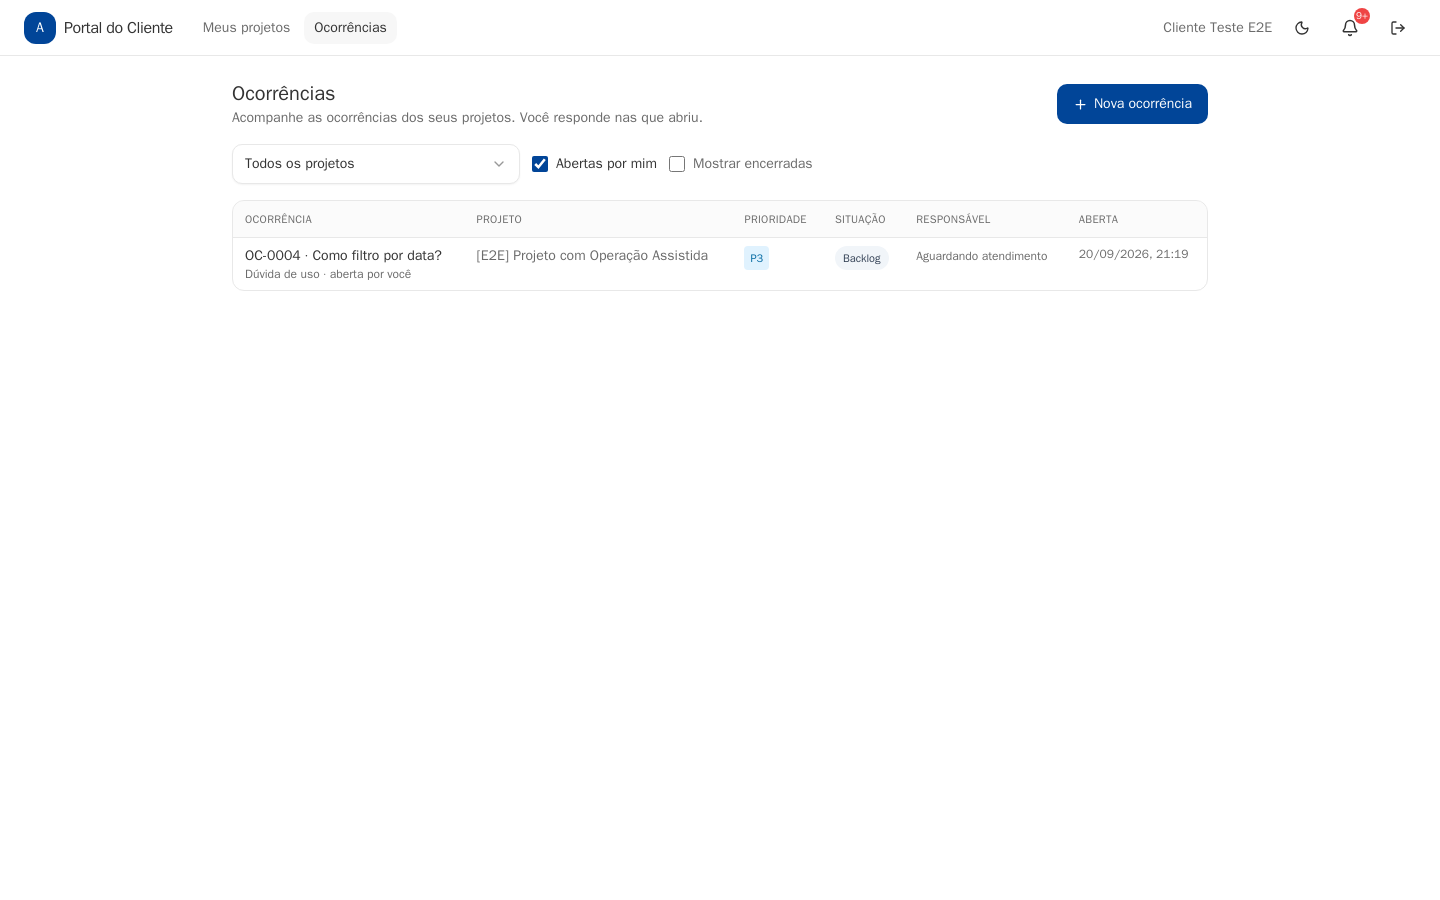
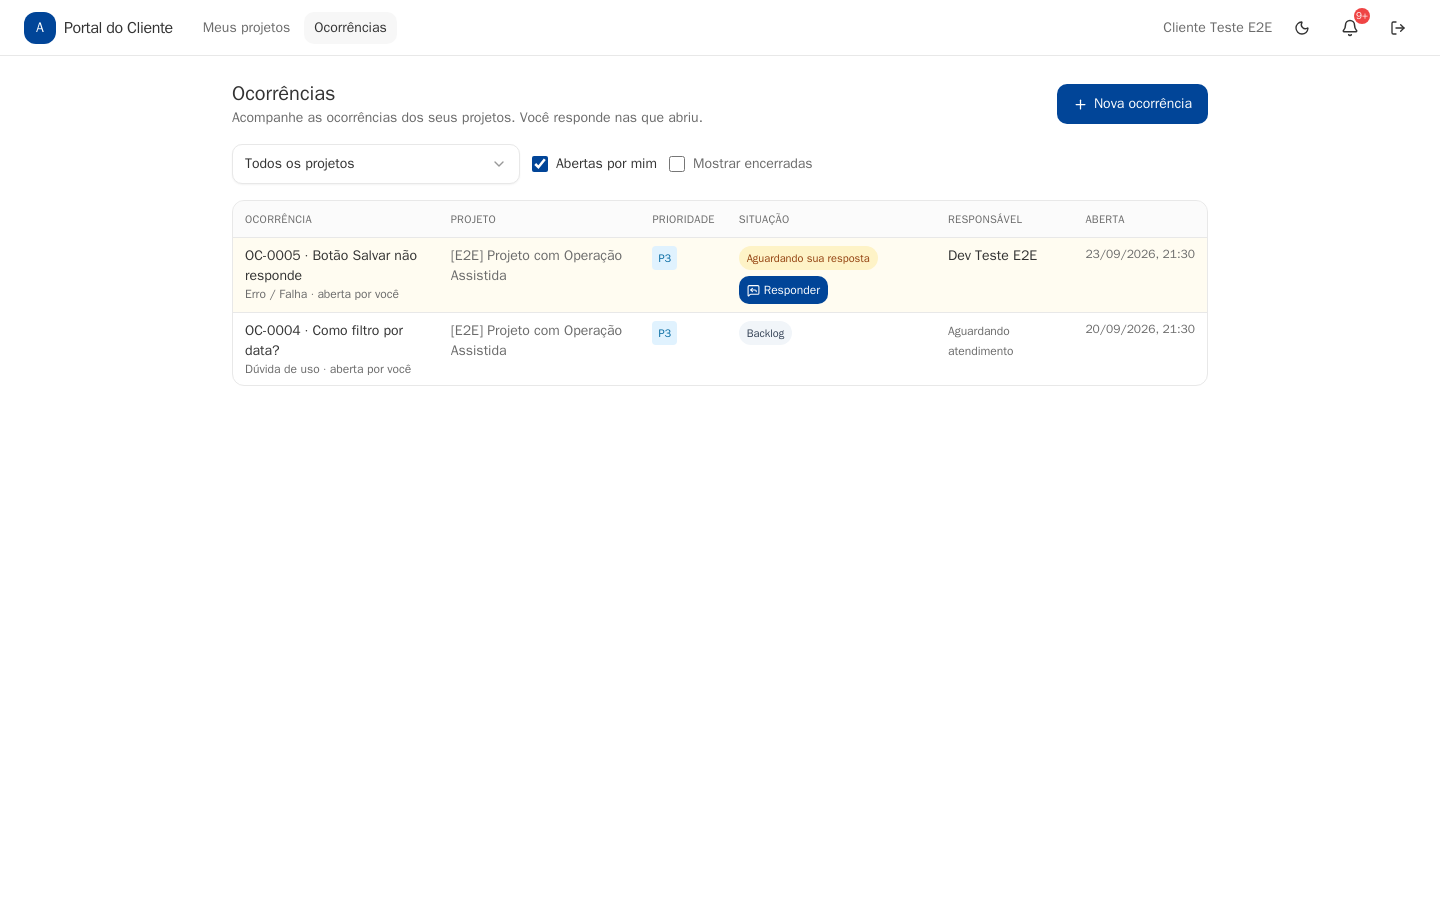
fix(portal): linha da ocorrência abre o detalhe e "Responder" em destaque
Na lista do Portal só o título era link: o cliente clicava na linha, não
chegava ao detalhe (onde fica a caixa de resposta) e não conseguia
responder ao dev em Aguardando Cliente. A linha inteira agora navega
(clique e Enter), a ocorrência aguardando resposta fica destacada com
botão "Responder", e no detalhe o aviso tem "Responder", que foca a caixa.

E2E da OA com o cenário (pergunta pública pelo drawer, clique na linha,
resposta, volta para Ajustando, dev notificado): 76/76 + 23/23.

diff --git a/frontend/src/modules/portal/ClientOccurrencesPage.tsx b/frontend/src/modules/portal/ClientOccurrencesPage.tsx
@@ -1,6 +1,6 @@
 import { useEffect, useMemo, useState } from "react"
-import { Link, useSearchParams } from "react-router-dom"
-import { LifeBuoy, Plus } from "lucide-react"
+import { Link, useNavigate, useSearchParams } from "react-router-dom"
+import { LifeBuoy, MessageSquareReply, Plus } from "lucide-react"
 
 import {
   OCCURRENCE_TIPO_LABEL,
@@ -18,6 +18,7 @@ const ALL = "__all__"
 
 /** Lista de ocorrências dos projetos do cliente (todas; filtro "abertas por mim"). */
 export default function ClientOccurrencesPage() {
+  const navigate = useNavigate()
   const [params, setParams] = useSearchParams()
   const projectFilter = params.get("projeto") ?? ALL
   const mine = params.get("minhas") === "1"
@@ -127,33 +128,59 @@ export default function ClientOccurrencesPage() {
               </tr>
             </thead>
             <tbody>
-              {visible.map((o) => (
-                <tr key={o.task_id} className="border-t align-top hover:bg-muted/30">
-                  <td className="px-3 py-2">
-                    <Link to={`/portal/ocorrencias/${o.task_id}`} className="font-medium hover:underline">
-                      {o.title}
-                    </Link>
-                    <div className="text-xs text-muted-foreground">
-                      {OCCURRENCE_TIPO_LABEL[o.tipo]}
-                      {o.opened_by_name && <> · {o.opened_by_me ? "aberta por você" : `por ${o.opened_by_name}`}</>}
-                    </div>
-                  </td>
-                  <td className="px-3 py-2 text-muted-foreground">{o.project_title ?? "—"}</td>
-                  <td className="px-3 py-2">
-                    <PriorityBadge value={o.prioridade} />
-                  </td>
-                  <td className="px-3 py-2">
-                    <StageBadge stageKey={o.stage_key} name={o.stage_name} mine={o.opened_by_me} />
-                  </td>
-                  {/* Quem assumiu no time (antes disso, aguardando alguém assumir). */}
-                  <td className="px-3 py-2">
-                    {o.assignee_name
-                      ? <span className="font-medium">{o.assignee_name}</span>
-                      : <span className="text-xs text-muted-foreground">{o.is_closed ? "—" : "Aguardando atendimento"}</span>}
-                  </td>
-                  <td className="whitespace-nowrap px-3 py-2 text-xs text-muted-foreground">{fmtDateTime(o.created_at)}</td>
-                </tr>
-              ))}
+              {visible.map((o) => {
+                const href = `/portal/ocorrencias/${o.task_id}`
+                const waitingMe = o.opened_by_me && o.stage_key === "aguardando_cliente"
+                // A linha inteira abre o detalhe (é lá que o cliente responde ao time).
+                return (
+                  <tr
+                    key={o.task_id}
+                    tabIndex={0}
+                    onClick={(e) => {
+                      if ((e.target as HTMLElement).closest("a, button")) return
+                      if (window.getSelection()?.toString()) return
+                      navigate(href)
+                    }}
+                    onKeyDown={(e) => {
+                      if (e.key === "Enter" && e.target === e.currentTarget) navigate(href)
+                    }}
+                    className={`cursor-pointer border-t align-top hover:bg-muted/30 focus-visible:bg-muted/40 focus-visible:outline-none ${
+                      waitingMe ? "bg-amber-50/70 dark:bg-amber-950/20" : ""
+                    }`}
+                  >
+                    <td className="px-3 py-2">
+                      <Link to={href} className="font-medium hover:underline">
+                        {o.title}
+                      </Link>
+                      <div className="text-xs text-muted-foreground">
+                        {OCCURRENCE_TIPO_LABEL[o.tipo]}
+                        {o.opened_by_name && <> · {o.opened_by_me ? "aberta por você" : `por ${o.opened_by_name}`}</>}
+                      </div>
+                    </td>
+                    <td className="px-3 py-2 text-muted-foreground">{o.project_title ?? "—"}</td>
+                    <td className="px-3 py-2">
+                      <PriorityBadge value={o.prioridade} />
+                    </td>
+                    <td className="px-3 py-2">
+                      <StageBadge stageKey={o.stage_key} name={o.stage_name} mine={o.opened_by_me} />
+                      {waitingMe && (
+                        <Button asChild size="sm" className="mt-1.5 h-7 gap-1 px-2 text-xs">
+                          <Link to={href}>
+                            <MessageSquareReply size={13} /> Responder
+                          </Link>
+                        </Button>
+                      )}
+                    </td>
+                    {/* Quem assumiu no time (antes disso, aguardando alguém assumir). */}
+                    <td className="px-3 py-2">
+                      {o.assignee_name
+                        ? <span className="font-medium">{o.assignee_name}</span>
+                        : <span className="text-xs text-muted-foreground">{o.is_closed ? "—" : "Aguardando atendimento"}</span>}
+                    </td>
+                    <td className="whitespace-nowrap px-3 py-2 text-xs text-muted-foreground">{fmtDateTime(o.created_at)}</td>
+                  </tr>
+                )
+              })}
             </tbody>
           </table>
         </div>

diff --git a/frontend/src/modules/portal/ClientOccurrenceDetailPage.tsx b/frontend/src/modules/portal/ClientOccurrenceDetailPage.tsx
@@ -1,6 +1,6 @@
-import { useEffect, useState } from "react"
+import { useEffect, useRef, useState } from "react"
 import { Link, useParams } from "react-router-dom"
-import { ArrowLeft, CheckCircle2, Loader2, Send, XCircle } from "lucide-react"
+import { ArrowLeft, CheckCircle2, Loader2, MessageSquareReply, Send, XCircle } from "lucide-react"
 
 import {
   OCCURRENCE_ABRANGENCIA_LABEL,
@@ -37,6 +37,7 @@ export default function ClientOccurrenceDetailPage() {
   const [reply, setReply] = useState("")
   const [replyFiles, setReplyFiles] = useState<Upload[]>([])
   const [sending, setSending] = useState(false)
+  const replyRef = useRef<HTMLTextAreaElement>(null)
   // Homologação
   const [homologMode, setHomologMode] = useState<"approve" | "reject" | null>(null)
   const [nps, setNps] = useState<number | null>(null)
@@ -61,10 +62,11 @@ export default function ClientOccurrenceDetailPage() {
         content: reply.trim(),
         anexos: replyFiles.length ? replyFiles : null,
       })
+      const wasWaiting = occ.stage_key === "aguardando_cliente"
       setOcc(updated)
       setReply("")
       setReplyFiles([])
-      toast.success("Mensagem enviada.")
+      toast.success(wasWaiting ? "Resposta enviada — a ocorrência voltou para o time." : "Mensagem enviada.")
     } catch (err) {
       toast.error(apiErrorDetail(err, "Não foi possível enviar a mensagem."))
     } finally {
@@ -131,7 +133,21 @@ export default function ClientOccurrenceDetailPage() {
 
       {waitingMe && (
         <Alert>
-          <AlertDescription>O time precisa de uma informação sua. Responda abaixo para a ocorrência voltar ao atendimento.</AlertDescription>
+          <AlertDescription className="flex flex-wrap items-center justify-between gap-2">
+            <span>O time precisa de uma informação sua. Responda na conversa para a ocorrência voltar ao atendimento.</span>
+            {occ.can_interact && (
+              <Button
+                size="sm"
+                className="gap-1.5"
+                onClick={() => {
+                  replyRef.current?.scrollIntoView({ behavior: "smooth", block: "center" })
+                  replyRef.current?.focus({ preventScroll: true })
+                }}
+              >
+                <MessageSquareReply size={14} /> Responder
+              </Button>
+            )}
+          </AlertDescription>
         </Alert>
       )}
       {occ.opened_by_me && occ.stage_key === "homologando" && (
@@ -250,7 +266,7 @@ export default function ClientOccurrenceDetailPage() {
 
             {occ.can_interact ? (
               <div className="space-y-2 border-t pt-3">
-                <Textarea rows={3} placeholder="Escreva sua mensagem" value={reply} onChange={(e) => setReply(e.target.value)} />
+                <Textarea ref={replyRef} rows={3} placeholder="Escreva sua mensagem" value={reply} onChange={(e) => setReply(e.target.value)} />
                 <AttachmentField
                   value={replyFiles}
                   onChange={(files) => setReplyFiles(files)}

diff --git a/provisorio/testes-e2e/operacao-assistida-2026-09-23/e2e_ui.py b/provisorio/testes-e2e/operacao-assistida-2026-09-23/e2e_ui.py
@@ -60,6 +60,25 @@ with sync_playwright() as p:
             shot(page, "05-portal-ocorrencia-melhoria", f"/portal/ocorrencias/{OCC['occ2']}", wait_text="classificada como melhoria")
             shot(page, "06-portal-dúvida-em-aberto", f"/portal/ocorrencias/{OCC['occ3']}", wait_text="Como filtro por data")
             shot(page, "07-portal-nova-ocorrencia", "/portal/ocorrencias/nova", wait_text="Nova ocorrência")
+            # Aguardando Cliente: clicar na linha (fora do título) abre o detalhe; "Responder" leva à caixa de mensagem.
+            page.goto(f"{URL}/portal/ocorrencias?minhas=1"); page.wait_for_load_state("networkidle")
+            row = page.locator("tr", has_text="Botão Salvar não responde")
+            shot(page, "08-portal-lista-aguardando-resposta", wait_text="Aguardando sua resposta")
+            row.locator("td").nth(1).click()
+            try:
+                page.wait_for_url(f"**/portal/ocorrencias/{OCC['occ4']}", timeout=10000); nav = True
+            except Exception:
+                nav = False
+            report.append({"tela": "clique-na-linha-abre-detalhe", "url": page.url.replace(URL, ""), "ok": nav})
+            page.get_by_text("Qual navegador você usa?").first.wait_for(timeout=15000)
+            page.get_by_role("button", name="Responder").click()
+            page.wait_for_timeout(600)
+            focused = page.evaluate("document.activeElement && document.activeElement.tagName === 'TEXTAREA'")
+            report.append({"tela": "responder-foca-a-caixa", "ok": bool(focused)})
+            page.get_by_placeholder("Escreva sua mensagem").fill("Uso o Chrome 128.")
+            page.get_by_role("button", name="Enviar").click()
+            shot(page, "09-portal-resposta-enviada", wait_text="voltou para o time")
+            report.append({"tela": "resposta-sai-de-aguardando", "ok": page.get_by_text("Aguardando sua resposta").count() == 0})
             page.goto(f"{URL}/app/modules/projetos/board"); page.wait_for_load_state("networkidle")
             report.append({"tela": "cliente-barrado-no-app", "url": page.url.replace(URL, ""), "ok": "/portal" in page.url})
         elif who == "po":

diff --git a/provisorio/testes-e2e/operacao-assistida-2026-09-23/e2e_http.py b/provisorio/testes-e2e/operacao-assistida-2026-09-23/e2e_http.py
@@ -221,6 +221,18 @@ s, occ3 = req("POST", "/projetos/portal/occurrences", CLIENT, {"project_task_id"
 state["occ"]["occ3"] = occ3["task_id"]
 check(4, "dúvida aberta e deixada sem responsável (para o alerta de 1h útil)", s == 201 and occ3["prioridade"] == "P3", f"{s}")
 
+# Aguardando Cliente pelo drawer do card (comentário público no endpoint genérico) — o cliente responde pela tela (e2e_ui.py)
+s, occ4 = req("POST", "/projetos/portal/occurrences", CLIENT, {"project_task_id": ROOT_OA, "tipo": "erro", "title": "Botão Salvar não responde",
+                                                              "description": "Clico em Salvar e nada acontece.", "impacto": "contorno", "abrangencia": "eu"})
+OCC4 = occ4["task_id"]; state["occ"]["occ4"] = OCC4
+req("POST", f"/projetos/occurrences/{OCC4}/assume", DEV)
+s, _ = req("POST", f"/projetos/projects/{CONTAINER}/tasks/{OCC4}/comments", DEV, {"content": "Qual navegador você usa?", "visibility": "public"})
+s2, _ = patch_status(DEV, OCC4, K["aguardando_cliente"])
+s3, d = req("GET", f"/projetos/portal/occurrences/{OCC4}", CLIENT)
+check(4, "pergunta pública do drawer chega ao cliente e ele pode responder", s == 201 and s2 == 200 and d["stage_key"] == "aguardando_cliente"
+      and d["can_interact"] and any("Qual navegador" in c["content"] for c in d["comments"]), f"{s} {s2} {s3}")
+check(4, "cliente é avisado da mensagem do time", any("nova mensagem do time" in n["title"] for n in notifs(CLIENT)))
+
 json.dump({"state": state, "tokens": {"PO": PO, "DEV": DEV, "COORD": COORD, "CLIENT": CLIENT}, "K": K,
            "results": results}, open(f"{SP}/e2e_state.json", "w"))
 print("\n=== parte 1 concluída:", sum(r[2] for r in results), "/", len(results), "OK")

diff --git a/provisorio/testes-e2e/operacao-assistida-2026-09-23/e2e_http2.py b/provisorio/testes-e2e/operacao-assistida-2026-09-23/e2e_http2.py
@@ -63,6 +63,13 @@ if "final" not in sys.argv:
     s, d1 = req("GET", f"/projetos/occurrences/{OCC['occ1']}", PO)
     check(5, "horas da ocorrência finalizada gravadas nas horas realizadas", s == 200 and d1["worked_hours"] is not None)
 else:
+    # ── resposta do cliente pela tela (e2e_ui.py): linha da lista → detalhe → Responder ──
+    s, d = req("GET", f"/projetos/occurrences/{OCC['occ4']}", DEV)
+    check(4, "resposta enviada pela tela devolve para Ajustando", s == 200 and d["stage_key"] == "ajustando"
+          and any("Chrome" in c["content"] and c["from_client"] for c in d["comments"]), f"{s} {d.get('stage_key') if isinstance(d, dict) else d}")
+    check(4, "dev é notificado da resposta dada pela tela",
+          any("resposta do cliente" in n["title"] and n.get("entity_id") == OCC["occ4"] for n in notifs(DEV)))
+    patch_status(PO, OCC["occ4"], K["finalizado"])
     # ── encerramento: PO finaliza a dúvida sem homologação e conclui o projeto ──
     s, _ = patch_status(PO, OCC["occ3"], K["finalizado"])
     s2, d = req("GET", f"/projetos/occurrences/{OCC['occ3']}", PO)

diff --git a/provisorio/testes-e2e/operacao-assistida-2026-09-23/RESULTADO.md b/provisorio/testes-e2e/operacao-assistida-2026-09-23/RESULTADO.md
@@ -4,7 +4,7 @@ Executado contra o sistema no ar (`tenant_ss`, `agileflow` via nginx `:18082`), 
 PO / Dev / Coordenador / Cliente de teste (`e2e.*@e2e-agileflow.com.br`) e projetos `[E2E] …`.
 Tudo foi removido ao final (`run.sh cleanup-only` refaz a limpeza se preciso).
 
-**Resultado: 72/72 verificações de API + 18/18 verificações de tela** (reexecutado após a auditoria de segurança: primeiro acesso agora é por link gerado por quem cadastra).
+**Resultado: 76/76 verificações de API + 23/23 verificações de tela** (reexecutado após a auditoria de segurança: primeiro acesso agora é por link gerado por quem cadastra; e em 23/09 com a resposta do cliente pela tela).
 
 ## API (HTTP real, com login)
 
@@ -30,6 +30,8 @@ Tudo foi removido ao final (`run.sh cleanup-only` refaz a limpeza se preciso).
 | 4 | Só o PO define devs fixos (dev → 403); divisão 50/30/20 gravada em Pessoas | OK |
 | 4 | Dev assume (Ajustando + início das horas); PO assume no lugar; dev retoma | OK |
 | 4 | Aguardando Cliente notifica o cliente; resposta volta para Ajustando e notifica o dev | OK |
+| 4 | Pergunta pública pelo drawer do card chega ao Portal (cliente avisado e pode responder) | OK |
+| 4 | Resposta enviada pela tela do Portal devolve para Ajustando e notifica o dev | OK |
 | 4 | Dev não finaliza direto (403) | OK |
 | 4 | Reprovar sem motivo → 400; reprovar com motivo → Ajustando (1 reprovação) | OK |
 | 4 | Aprovar com NPS 9 → Finalizado, horas congeladas; não reabre; não aceita mensagem | OK |
@@ -48,7 +50,9 @@ Tudo foi removido ao final (`run.sh cleanup-only` refaz a limpeza se preciso).
 
 Cliente: login cai no Portal; Meus projetos; Ocorrências (com filtro e encerradas); ocorrência
 homologada (NPS, conversa pública, anexo, andamento); melhoria encaminhada; dúvida em aberto;
-nova ocorrência; tentativa de abrir `/app/...` volta ao Portal. PO: Clientes; verificação de
+nova ocorrência; ocorrência aguardando resposta (linha destacada + "Responder"; clique na linha
+abre o detalhe; "Responder" foca a caixa; enviar devolve ao time); tentativa de abrir `/app/...`
+volta ao Portal. PO: Clientes; verificação de
 e-mail já cadastrado; Capacidade (sub-linhas Operação Assistida / Chamados). Coordenador: lista de
 Pessoas (coluna Jornada), detalhe da pessoa (barra 40/40/20), dashboard (Capacidade diária do time).
 
